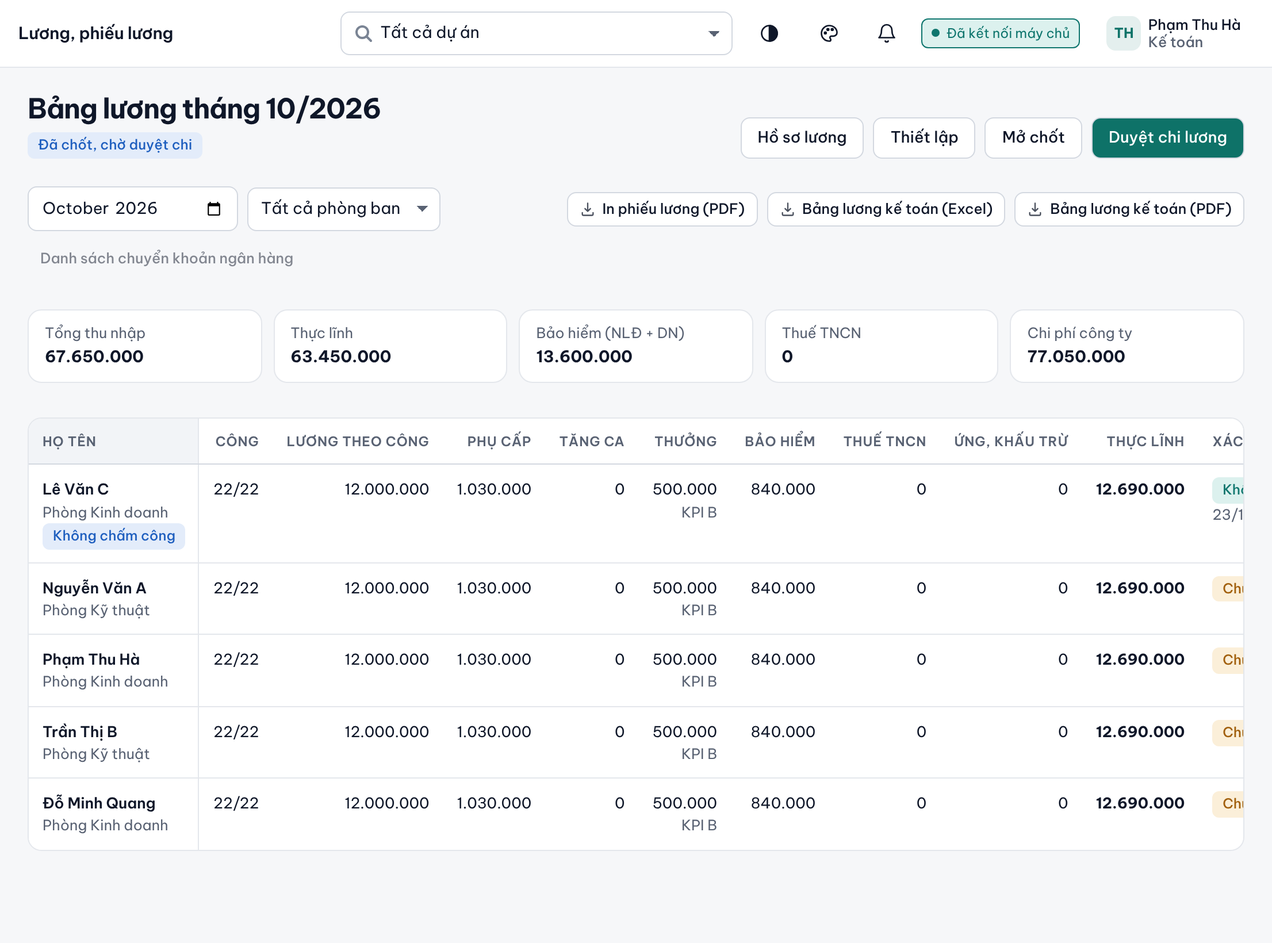
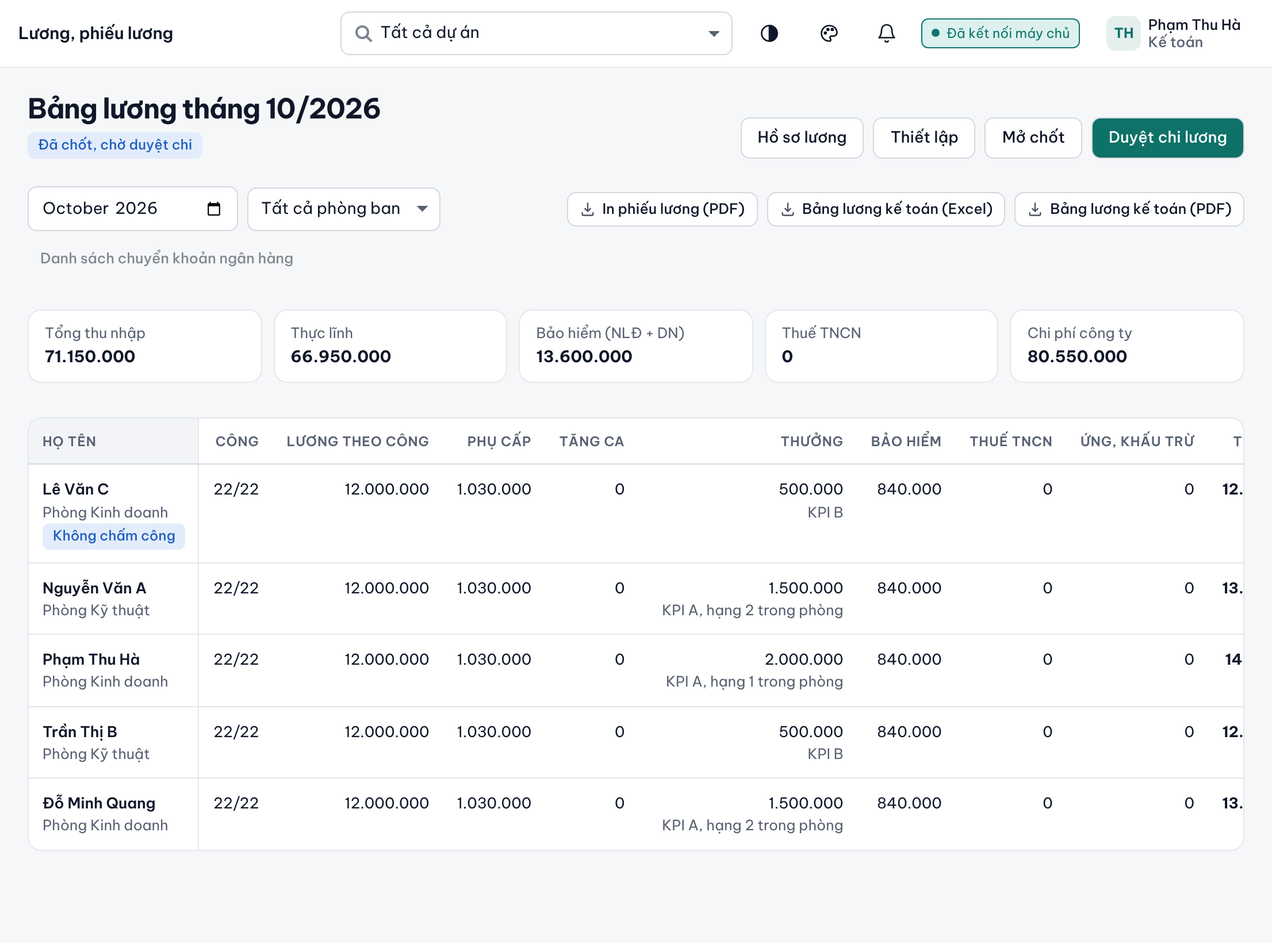
HDSD 1.10.16: Nhận nhiệm vụ thay điểm danh, hôm nay ai ở đâu, tổng hợp tháng, KPI tự động 70/30, thưởng hạng 1-2 toàn công ty, KPI công khai, phép 12 ngày; ảnh mới
Claude-Session: https://claude.ai/code/session_01NQcRJvoDzVmdyR4k9XZr5m

diff --git a/docs/hdsd-tt/content.js b/docs/hdsd-tt/content.js
@@ -1,19 +1,19 @@
-// Nội dung Hướng dẫn sử dụng e-work Tri Thức (bản 1.10.4) theo vai trò.
+// Nội dung Hướng dẫn sử dụng e-work Tri Thức (bản 1.10.16: Nhận nhiệm vụ thay điểm danh, KPI tự động) theo vai trò.
 // Mỗi chương: id, title, roles (nv: Nhân viên, tp: Trưởng phòng, kt: Kế toán, gd: Ban giám đốc, qt: Quản trị), html, shot (ảnh trong shots/, có thể thiếu).
 // Chương chung cho mọi người đặt roles: ALL.
 const ALL = ['nv', 'tp', 'kt', 'gd', 'qt'];
 
 exports.ROLES = {
   nv: { name: 'Nhân viên', file: 'Nhan vien', group: 'g-nv',
-    intro: 'Tài liệu dành cho mọi người lao động của Công ty: điểm danh, gửi đề xuất, làm công việc được giao, xem KPI, xác nhận lương, xem lịch họp, thông báo và thông tin dự án.' },
+    intro: 'Tài liệu dành cho mọi người lao động của Công ty: nhận nhiệm vụ hằng ngày, gửi đề xuất, làm công việc được giao, xem KPI, xác nhận lương, xem lịch họp, thông báo và thông tin dự án.' },
   tp: { name: 'Trưởng phòng', file: 'Truong phong', group: 'g-tp',
-    intro: 'Trưởng phòng làm mọi việc như Nhân viên, thêm phần quản lý phòng mình: giao việc, xác nhận việc phát sinh, nghiệm thu, duyệt đề xuất, chấm KPI, theo dõi bảng công của phòng.' },
+    intro: 'Trưởng phòng làm mọi việc như Nhân viên, thêm phần quản lý phòng mình: giao việc, xác nhận việc phát sinh, nghiệm thu, duyệt đề xuất, xem hôm nay ai ở đâu, theo dõi bảng công của phòng.' },
   kt: { name: 'Kế toán', file: 'Ke toan', group: 'g-ketoan',
     intro: 'Kế toán làm mọi việc như Nhân viên, thêm phần hồ sơ nhân sự, bảng công, ngày nghỉ lễ, lập và chốt bảng lương, trả lời kiến nghị, duyệt chi lương, xuất bảng lương kế toán và danh sách chuyển khoản ngân hàng.' },
   gd: { name: 'Ban giám đốc', file: 'Ban giam doc', group: 'g-bgd',
-    intro: 'Giám đốc làm việc trên phần mềm như mọi người (điểm danh, đề xuất, nhận việc, xác nhận lương), thêm quyền điều hành: xem toàn công ty, giao việc, chốt KPI, duyệt đề xuất, duyệt chi lương, đăng thông báo, quản lý dự án.' },
+    intro: 'Giám đốc làm việc trên phần mềm như mọi người (nhận nhiệm vụ, đề xuất, làm việc được giao, xác nhận lương), thêm quyền điều hành: xem toàn công ty, hôm nay ai ở đâu, giao việc, duyệt đề xuất, duyệt chi lương, đăng thông báo, quản lý dự án.' },
   qt: { name: 'Quản trị hệ thống', file: 'Quan tri he thong', group: 'g-admin',
-    intro: 'Quản trị hệ thống quản lý tài khoản, gán vai trò khi nhân sự thay đổi, phòng ban và trưởng phòng, các thiết lập điểm danh, KPI, lương, phân hệ sử dụng, sao lưu và bảo mật.' },
+    intro: 'Quản trị hệ thống quản lý tài khoản, gán vai trò khi nhân sự thay đổi, phòng ban và trưởng phòng, các thiết lập nhận nhiệm vụ, KPI, lương, phân hệ sử dụng, sao lưu và bảo mật.' },
 };
 
 exports.CHAPTERS = [
@@ -21,10 +21,10 @@ exports.CHAPTERS = [
   { id: 'vai-tro', title: 'Vai trò và phạm vi được xem', roles: ALL, html: `
 <p>Mỗi tài khoản thuộc một <b>vai trò</b> (nhóm quyền). Khi nhân sự thay đổi, Quản trị chỉ đổi vai trò của tài khoản; quyền của từng vai trò giữ nguyên.</p>
 <table><tr><th>Vai trò</th><th>Của mình</th><th>Thêm quyền</th></tr>
-<tr><td><b>Nhân viên</b></td><td rowspan="5">Mọi người đều: điểm danh, gửi đề xuất, nhận và làm việc, xem KPI và phiếu lương của mình, xác nhận lương, xem lịch họp, thông báo, xem thông tin dự án</td><td>Không xem lương, bảng công, hồ sơ nhân sự, KPI của người khác</td></tr>
-<tr><td><b>Trưởng phòng</b></td><td>Với phòng mình: giao việc, xác nhận việc phát sinh, nghiệm thu, duyệt đề xuất, chấm KPI, xem bảng công</td></tr>
+<tr><td><b>Nhân viên</b></td><td rowspan="5">Mọi người đều: nhận nhiệm vụ hằng ngày, gửi đề xuất, làm việc được giao, xem KPI của mọi người (công khai) và phiếu lương của mình, xác nhận lương, xem lịch họp, thông báo, xem thông tin dự án</td><td>Không xem lương, bảng công, hồ sơ nhân sự, tiền thưởng của người khác</td></tr>
+<tr><td><b>Trưởng phòng</b></td><td>Với phòng mình: giao việc, xác nhận việc phát sinh, nghiệm thu, duyệt đề xuất, xem hôm nay ai ở đâu, bảng công</td></tr>
 <tr><td><b>Kế toán</b></td><td>Hồ sơ nhân sự, bảng công, ngày lễ, lập và chốt lương, trả lời kiến nghị, duyệt chi lương, xuất bảng lương và danh sách chuyển khoản</td></tr>
-<tr><td><b>Ban giám đốc</b></td><td>Toàn công ty: giao việc, chấm và chốt KPI, duyệt đề xuất, duyệt chi lương, thông báo, lịch họp, quản lý dự án</td></tr>
+<tr><td><b>Ban giám đốc</b></td><td>Toàn công ty: giao việc, hôm nay ai ở đâu, mở chốt KPI khi cần sửa, duyệt đề xuất, duyệt chi lương, thông báo, lịch họp, quản lý dự án</td></tr>
 <tr><td><b>Quản trị</b></td><td>Tài khoản, vai trò, thiết lập hệ thống, sao lưu</td></tr></table>
 <p class="note">Quyền Trưởng phòng đi theo phòng ban: phòng nào ghi tên người phụ trách là ai thì người đó quản lý phòng đó. Đổi trưởng phòng chỉ cần sửa phòng ban.</p>` },
 
@@ -35,13 +35,23 @@ exports.CHAPTERS = [
 <p>Trên điện thoại: mở trang bằng Chrome (Android) hoặc Safari (iPhone), chọn <b>Thêm vào màn hình chính</b> để dùng như ứng dụng.</p>
 <p class="note">Quên mật khẩu: báo Quản trị đặt lại. Phần mềm không bao giờ hỏi mật khẩu qua tin nhắn hay thư.</p>` },
 
-  { id: 'diem-danh', title: 'Điểm danh hằng ngày', roles: ALL, shot: 'diem-danh', html: `
-<ol><li>Vào <b>Văn phòng → Điểm danh</b> (trang mở đầu sau khi đăng nhập).</li>
-<li>Chọn nơi làm việc (<i>Tại công ty, công trình</i>, <i>Làm việc online</i>, <i>Đi công tác</i>), bấm <b>Điểm danh vào</b>; về bấm <b>Điểm danh ra</b>. Tại công ty: cho phép trình duyệt dùng định vị, hoặc kết nối mạng của công ty.</li>
-<li>Màn hình hiện giờ vào, giờ ra, lời chúc trong ngày lễ, sinh nhật, và các việc sắp đến hạn của bạn.</li></ol>
-<p>Ngày nghỉ (Chủ nhật, thứ Bảy nghỉ, ngày lễ): nút điểm danh khóa, màn hình chỉ hiện lời chúc. Có làm thêm vào ngày nghỉ thì làm xong lập <b>phiếu xác nhận tăng ca</b> (chương <i>Đề xuất</i>).</p>
-<p>Quên điểm danh, đi muộn có lý do, làm việc online: gửi đề xuất tương ứng (chương <i>Đề xuất</i>). Đề xuất được duyệt thì bảng công tự tính lại.</p>
-<p class="note">Chấm công trên phần mềm mới được chép sang e-work cũ mỗi 5 phút trong thời gian chạy song song, nên không cần chấm hai nơi.</p>` },
+  { id: 'diem-danh', title: 'Nhận nhiệm vụ hằng ngày', roles: ALL, shot: 'nhan-nhiem-vu', html: `
+<p>"Nhận nhiệm vụ" thay cho điểm danh: <b>mỗi ngày làm việc bấm một lần</b>, khi bắt đầu làm việc. Không cần định vị, không cần phiếu duyệt, không bấm khi ra về.</p>
+<ol><li>Vào <b>Văn phòng → Nhận nhiệm vụ</b> (trang mở đầu sau khi đăng nhập).</li>
+<li>Chọn hôm nay làm việc ở đâu: <i>Ở công ty</i>, <i>Làm việc online</i>, <i>Đi công tác</i> hoặc <i>Khác</i>. Chọn <i>Khác</i> thì bắt buộc ghi nội dung công việc hôm nay (ví dụ: họp với chủ đầu tư tại UBND xã).</li>
+<li>Tích chọn các <b>việc được giao</b> sẽ làm hôm nay (không bắt buộc; danh sách lấy từ mục Công việc).</li>
+<li>Bấm <b>Nhận nhiệm vụ</b>. Màn hình hiện giờ nhận, nơi làm, việc đã chọn; đi muộn thì hiện số phút muộn.</li>
+<li>Cuối ngày có thể ghi một dòng <b>Kết quả hôm nay</b> rồi bấm <b>Lưu kết quả</b> (không bắt buộc).</li></ol>
+<table><tr><th>Trường hợp</th><th>Cách tính</th></tr>
+<tr><td>Đã nhận nhiệm vụ</td><td>Tính 1 ngày công để tính lương (ngày làm nửa ngày tính theo lịch).</td></tr>
+<tr><td>Nhận sau giờ vào (08:00)</td><td>Tính đi muộn, trừ điểm chuyên cần trong KPI (muộn không quá 5 phút không trừ). Chọn <i>Đi công tác</i> hoặc <i>Khác</i> thì không tính muộn.</td></tr>
+<tr><td>Ngày làm việc không nhận nhiệm vụ và không có phiếu nghỉ phép được duyệt</td><td>Tính <b>nghỉ không phép</b>: trừ lương ngày đó và trừ điểm chuyên cần.</td></tr>
+<tr><td>Có phiếu nghỉ phép, nghỉ việc riêng, làm việc online hoặc công tác được duyệt cả ngày</td><td>Không phải nhận nhiệm vụ, không tính nghỉ không phép.</td></tr></table>
+<p>Quá 07:50 chưa nhận nhiệm vụ thì trang hiện lời nhắc. Bấm <b>Bật nhắc trên thiết bị này</b> để điện thoại, máy tính hiện thông báo khi đang mở phần mềm.</p>
+<p>Ngày nghỉ (Chủ nhật, thứ Bảy nghỉ, ngày lễ): không nhận nhiệm vụ, màn hình chỉ hiện lời chúc. Có làm thêm vào ngày nghỉ thì làm xong lập <b>phiếu xác nhận tăng ca</b> (chương <i>Đề xuất</i>).</p>
+<p>Quên nhận nhiệm vụ hoặc đi muộn có lý do: gửi đề xuất <i>Quên điểm danh</i> hoặc <i>Đi muộn, về sớm</i>. Đề xuất được duyệt thì công tự tính lại.</p>
+<p>Từ ngày 1 đến ngày 10 mỗi tháng, trang hiện <b>Tổng kết tháng trước của bạn</b>: số ngày ở công ty, online, công tác, khác, số lần đi muộn, ngày nghỉ phép, ngày nghỉ không phép. Bấm <b>Đã xem</b> để ẩn.</p>
+<p class="note">Trong thời gian chạy song song, ngày nhận nhiệm vụ được chép sang e-work cũ mỗi 5 phút, nên không cần chấm hai nơi.</p>` },
 
   { id: 'de-xuat', title: 'Gửi đề xuất', roles: ALL, shot: 'de-xuat', html: `
 <ol><li>Vào <b>Văn phòng → Đề xuất</b>, bấm <b>+ Tạo đề xuất</b>, chọn loại.</li>
@@ -52,9 +62,9 @@ exports.CHAPTERS = [
 <tr><td>Nghỉ việc riêng có lương</td><td>Kết hôn 3 ngày, con kết hôn 1 ngày, bố mẹ (hai bên), vợ hoặc chồng, con mất 3 ngày (Điều 115 Bộ luật Lao động). Không trừ phép.</td></tr>
 <tr><td>Nghỉ không lương</td><td>Không tính lương ngày đó, không tính vắng không phép.</td></tr>
 <tr><td>Nghỉ ốm, thai sản (BHXH)</td><td>Công ty không trả lương ngày đó; bảo hiểm xã hội chi trả theo chứng từ.</td></tr>
-<tr><td>Làm việc online, Công tác</td><td>Tính đủ công. Công tác phí theo mức Công ty đặt (nếu bật).</td></tr>
-<tr><td>Tăng ca (phiếu xác nhận)</td><td>Lập <b>sau khi đã làm thêm</b>: chọn loại (bình thường tối đa 3 giờ/ngày; theo yêu cầu gấp tối đa 4 giờ/ngày), ngày, số giờ đã làm, nội dung. Không lập cho ngày chưa tới. Trưởng bộ phận hoặc Giám đốc duyệt. Phiếu duyệt trong tháng nào tính vào lương tháng đó. Tiền = số giờ × (lương chính + phụ cấp) ÷ công chuẩn ÷ 8 × hệ số: ngày thường 150%, ngày nghỉ hằng tuần 200%, ngày lễ 300% (Điều 98).</td></tr>
-<tr><td>Đi muộn, về sớm; Quên điểm danh</td><td>Được duyệt thì không tính đi muộn hoặc thiếu công.</td></tr>
+<tr><td>Làm việc online, Công tác</td><td>Không bắt buộc: chỉ cần chọn khi nhận nhiệm vụ. Lập phiếu khi cả ngày không vào được phần mềm hoặc cần công tác phí. Công tác phí theo mức Công ty đặt (nếu bật).</td></tr>
+<tr><td>Tăng ca (phiếu xác nhận)</td><td>Lập <b>sau khi đã làm thêm</b>: chọn loại (bình thường tối đa 3 giờ/ngày; theo yêu cầu gấp tối đa 4 giờ/ngày), ngày, số giờ đã làm, nội dung. Không lập cho ngày chưa tới. Trưởng bộ phận hoặc Giám đốc duyệt. Phiếu duyệt trong tháng nào tính vào lương tháng đó. Tiền = số giờ × (lương chính + phụ cấp) ÷ công chuẩn ÷ 8 × hệ số theo loại ngày, đặt trong <b>Lương → Thiết lập</b> (Công ty đang trả như e-work: làm thêm ngày nghỉ 150%).</td></tr>
+<tr><td>Đi muộn, về sớm; Quên điểm danh (quên nhận nhiệm vụ)</td><td>Được duyệt thì không tính đi muộn hoặc nghỉ không phép.</td></tr>
 <tr><td>Tạm ứng, Xăng xe, Thanh toán, Ứng lương</td><td>Kế toán hoặc Ban giám đốc chọn có đưa vào lương tháng hay không.</td></tr></table>` },
 
   { id: 'cong-viec', title: 'Công việc của tôi', roles: ALL, shot: 'cong-viec', html: `
@@ -63,12 +73,18 @@ exports.CHAPTERS = [
 <li>Làm xong bấm <b>Hoàn thành</b>, ghi kết quả, đính kèm sản phẩm. Việc chuyển sang <i>Chờ nghiệm thu</i>.</li>
 <li>Người giao nghiệm thu, chấm chất lượng 1 đến 5 sao, hoặc mở lại kèm hạn mới nếu cần sửa.</li>
 <li>Phát sinh việc ngoài kế hoạch: bấm <b>+ Việc phát sinh</b>, chọn nhiệm vụ hoặc công việc mà việc này phát sinh từ đó. Trưởng phòng xác nhận thì việc mới tính KPI.</li></ol>
-<p>Điểm công việc trong KPI = mức độ (Bình thường, Quan trọng, Khẩn cấp) × đúng hạn × chất lượng. Mỗi lần gia hạn hoặc mở lại bị trừ một phần. Người phối hợp được tính một phần điểm.</p>
-<p class="note">Việc sắp đến hạn và quá hạn hiện ngay trên trang Điểm danh để nhắc bạn.</p>` },
+<p>Điểm công việc trong KPI = mức độ (Bình thường 1, Quan trọng 1,5, Khẩn cấp 2) × hệ số đúng hạn (trễ đến 1 ngày còn 75%, đến 3 ngày còn 50%, trễ hơn 0). Mỗi lần mở lại trừ 20%, mỗi lần gia hạn trừ 10%. Người phối hợp được tính 30% điểm. Số sao nghiệm thu để ghi nhận chất lượng, không làm thay đổi điểm.</p>
+<p class="note">Việc sắp đến hạn và quá hạn hiện ngay trên trang Nhận nhiệm vụ để nhắc bạn; khi nhận nhiệm vụ bạn chọn được các việc này để làm trong ngày.</p>` },
 
   { id: 'kpi', title: 'KPI, đánh giá tháng', roles: ALL, shot: 'kpi', html: `
-<p>Vào <b>Văn phòng → KPI, đánh giá tháng</b>, chọn tháng. Bạn thấy điểm của mình: công việc, dự án, chuyên cần, đánh giá của trưởng phòng, tổng điểm, xếp loại và hạng trong phòng.</p>
-<p>Trong tháng, trang Điểm danh hiện KPI tạm tính tới hôm nay và mức cần đạt để được thưởng xếp hạng. Khi KPI tháng được chốt, thưởng xếp hạng (nếu có) cộng vào lương tháng đó.</p>` },
+<p><b>KPI do máy tự tính hoàn toàn</b>, không ai chấm tay. Vào <b>Văn phòng → KPI, đánh giá tháng</b>, chọn tháng.</p>
+<table><tr><th>Phần</th><th>Tỷ trọng</th><th>Cách tính</th></tr>
+<tr><td>Công việc</td><td>70%</td><td>Từ các việc được giao xong trong tháng (chương <i>Công việc của tôi</i>).</td></tr>
+<tr><td>Chuyên cần</td><td>30%</td><td>100 điểm, mỗi lần đi muộn quá 5 phút trừ 5, mỗi ngày nghỉ không phép trừ 20; thấp nhất 0.</td></tr></table>
+<p>Tháng không có việc được giao thì điểm chỉ tính theo chuyên cần. Xếp loại: A từ 90, B từ 75, C từ 60, dưới 60 là D.</p>
+<p><b>Thưởng KPI</b>: cả công ty xếp hạng chung, chỉ <b>hạng 1 và hạng 2</b> được thưởng theo mức Công ty đặt. Máy tự chốt KPI lúc 0 giờ ngày 1 tháng sau, thưởng cộng vào lương tháng đó.</p>
+<p><b>Điểm KPI công khai</b>: mọi người xem được điểm, xếp loại, hạng của nhau để cùng phấn đấu. Tiền thưởng của người khác không hiện.</p>
+<p class="note">Cách tính áp dụng từ tháng 12/2026; sau 3 tháng Công ty đánh giá lại và điều chỉnh nếu cần.</p>` },
 
   { id: 'phieu-luong', title: 'Phiếu lương và xác nhận lương', roles: ALL, shot: 'phieu-luong', html: `
 <ol><li>Khi bảng lương tháng được chốt, vào <b>Văn phòng → Lương, phiếu lương</b>, chọn tháng để xem phiếu lương của mình: ngày công, lương thời gian, phụ cấp, tăng ca, công tác phí, thưởng KPI, bảo hiểm, thuế thu nhập cá nhân, tạm ứng, thực nhận.</li>
@@ -96,24 +112,24 @@ exports.CHAPTERS = [
 <li>Mở đề xuất, xem chứng từ đính kèm, bấm <b>Duyệt</b> hoặc <b>Không duyệt</b> (ghi lý do).</li></ol>
 <p>Trưởng phòng duyệt đề xuất của nhân viên phòng mình. Ban giám đốc duyệt mọi đề xuất, kể cả của Trưởng phòng. Không ai tự duyệt đề xuất của mình; đề xuất của Giám đốc do Quản trị duyệt.</p>` },
 
-  { id: 'tp-kpi', title: 'Chấm KPI, theo dõi bảng công của phòng', roles: ['tp', 'gd'], html: `
-<ol><li>Vào <b>KPI, đánh giá tháng</b>, chọn tháng. Điểm công việc và chuyên cần tự tính; bạn chấm <b>điểm dự án</b> và <b>đánh giá</b> (1 đến 5 sao) cho từng người.</li>
-<li>Chấm xong trong tháng. <b>Máy tự chốt KPI lúc 0 giờ ngày 1 tháng sau</b> (không ai phải bấm), để phiếu lương nhân viên xác nhận từ ngày 1 đã có thưởng. Sau khi chốt, điểm và hạng cố định, việc cập nhật trễ không làm đổi thưởng. Cần sửa thì Ban giám đốc bấm <b>Mở chốt</b>, sửa xong bấm <b>Chốt KPI tháng</b> (máy không tự chốt lại tháng đã mở chốt).</li>
-<li>Bảng công: <b>Bảng công, chấm công</b> hiện công của phòng (Trưởng phòng) hoặc toàn công ty (Ban giám đốc, Kế toán); <b>Xuất Excel</b> khi cần.</li></ol>
-<p>Thiết lập KPI (tỷ trọng, hệ số mức độ, trễ hạn, chất lượng, phối hợp, xếp loại) do Ban giám đốc hoặc Quản trị đặt trong nút <b>Thiết lập</b>.</p>` },
+  { id: 'tp-kpi', title: 'Hôm nay ai ở đâu, bảng công của phòng, KPI', roles: ['tp', 'gd'], shot: 'hom-nay', html: `
+<ol><li>Vào <b>Bảng công, chấm công</b>, thẻ <b>Hôm nay ai ở đâu</b>: số người ở công ty, online, công tác, khác, có phiếu nghỉ, chưa nhận nhiệm vụ, đi muộn; từng người làm ở đâu, việc làm hôm nay, kết quả cuối ngày. Chọn ngày khác để xem lại.</li>
+<li>Thẻ <b>Tổng hợp tháng</b>: mỗi người số ngày công, ở công ty, online, công tác, khác, đi muộn, nghỉ phép, tăng ca, nghỉ không phép; <b>Xuất Excel</b> khi cần. Trưởng phòng thấy phòng mình, Ban giám đốc và Kế toán thấy toàn công ty.</li>
+<li><b>KPI</b> máy tự tính và tự chốt lúc 0 giờ ngày 1 tháng sau, không ai phải chấm hay bấm chốt. Cần sửa sai sót thì Ban giám đốc bấm <b>Mở chốt</b>, sửa, bấm <b>Chốt KPI tháng</b>.</li></ol>
+<p>Muốn KPI phản ánh đúng: giao việc có hạn rõ ràng, nghiệm thu đúng lúc, xác nhận việc phát sinh kịp thời.</p>` },
 
   // ---------------- kế toán
   { id: 'kt-nhan-su', title: 'Hồ sơ nhân sự, hồ sơ lương', roles: ['kt', 'gd'], shot: 'nhan-su', html: `
 <ol><li><b>Văn phòng → Nhân sự</b>, bấm tên một người để mở trang hồ sơ: thẻ <b>Thông tin chung</b> (cá nhân, phòng ban, chức vụ, ngày vào làm, ngân hàng, CCCD, người phụ thuộc), <b>Bằng cấp, chứng chỉ</b>, <b>Hợp đồng lao động</b>, <b>Quá trình công tác</b>, <b>Khen thưởng</b>, <b>Kỷ luật</b>, <b>Giấy tờ</b>, <b>Tất cả tệp</b>. Mỗi mục đính kèm được ảnh chụp hoặc bản PDF, bấm <b>Xem</b> để mở ngay. Mỗi người xem hồ sơ của mình ở <b>Hồ sơ của tôi</b>.</li>
-<li>Ô <b>Chấm công</b>: chọn <i>Không chấm công</i> cho người không cần điểm danh. Người đó hưởng nguyên lương chính, không cần tự xác nhận lương.</li>
+<li>Ô <b>Chấm công</b>: chọn <i>Không chấm công</i> cho người không cần nhận nhiệm vụ. Người đó hưởng nguyên lương chính, không cần tự xác nhận lương.</li>
 <li>Người nghỉ việc: ghi ngày nghỉ việc và trạng thái <i>Nghỉ việc</i>; hồ sơ vẫn giữ để tra cứu và tính lương tháng cuối.</li>
 <li><b>Lương → Hồ sơ lương</b>: lương cơ bản, lương đóng bảo hiểm, các khoản phụ cấp, số người phụ thuộc, cách tính thuế, đóng hay không đóng bảo hiểm, mức công tác phí riêng (để trống thì dùng mức chung, 0 là không hưởng; đã lấy sẵn từ e-work).</li></ol>
 <p class="note">Thông tin CCCD, ngân hàng là dữ liệu cá nhân (Nghị định 13/2023): chỉ dùng để chi lương, không chụp màn hình gửi ra ngoài.</p>` },
 
   { id: 'kt-bang-cong', title: 'Bảng công, ngày nghỉ lễ', roles: ['kt', 'gd'], html: `
-<ol><li><b>Bảng công, chấm công</b>, thẻ <b>Bảng công tháng</b>: chọn tháng, xem từng người (đi muộn, về sớm, vắng, nghỉ phép, công tác, online, tăng ca). Bấm tên để xem chi tiết từng ngày (thẻ <b>Chi tiết điểm danh</b>).</li>
-<li><b>+ Bổ sung điểm danh</b> hoặc <b>Điều chỉnh</b> khi có sai sót (phần mềm ghi lại người sửa, lý do).</li>
-<li>Thẻ <b>Thiết lập điểm danh</b>: chọn năm, bấm <b>Điền ngày lễ theo luật</b> cho năm mới; thêm ngày nghỉ bù, ngày làm bù theo thông báo của Chính phủ.</li></ol>` },
+<ol><li><b>Bảng công, chấm công</b>, thẻ <b>Tổng hợp tháng</b>: chọn tháng, xem từng người (ngày công, ở công ty, online, công tác, khác, đi muộn, nghỉ phép, tăng ca, nghỉ không phép); <b>Xuất Excel</b>. Bấm tên để xem chi tiết từng ngày (thẻ <b>Chi tiết nhận nhiệm vụ</b>).</li>
+<li><b>+ Bổ sung nhận nhiệm vụ</b> hoặc <b>Điều chỉnh</b> khi có sai sót (ô giờ để trống thì giữ giờ cũ; phần mềm ghi lại người sửa, lý do).</li>
+<li>Thẻ <b>Thiết lập</b>: chọn năm, bấm <b>Điền ngày lễ theo luật</b> cho năm mới; thêm ngày nghỉ bù, ngày làm bù theo thông báo của Chính phủ.</li></ol>` },
 
   { id: 'kt-luong', title: 'Lập, chốt bảng lương', roles: ['kt', 'gd'], shot: 'bang-luong', html: `
 <ol><li>Vào <b>Lương, phiếu lương</b>, chọn tháng. Bảng lương tự tính từ bảng công, đề xuất đã duyệt, KPI đã chốt và hồ sơ lương.</li>
@@ -123,7 +139,8 @@ exports.CHAPTERS = [
 <p><b>Quy tắc tính (theo quy định hiện hành):</b></p>
 <ul><li>Bảo hiểm người lao động đóng: BHXH 8%, BHYT 1,5%, BHTN 1%. Trần BHXH, BHYT = 20 lần lương cơ sở (2.530.000 đ từ 01/7/2026); trần BHTN = 20 lần lương tối thiểu vùng (vùng I 5.310.000 đ từ 01/01/2026, Nghị định 293/2025).</li>
 <li>Thuế TNCN: biểu 5 bậc từ 01/01/2026 (5%, 10%, 20%, 30%, 35%); giảm trừ bản thân 15,5 triệu, mỗi người phụ thuộc 6,2 triệu.</li>
-<li>Nghỉ phép trong số phép được hưởng lương; vượt phép trừ lương. Cuối năm còn phép thì trả vào lương tháng 12.</li>
+<li>Phép năm: làm đủ năm được 12 ngày (như e-work, không cộng thêm theo thâm niên); năm đầu tính theo số tháng làm việc. Nghỉ phép trong số phép được hưởng lương; vượt phép trừ lương. Cuối năm còn phép thì trả vào lương tháng 12.</li>
+<li>Ngày nghỉ không phép (không nhận nhiệm vụ, không có phiếu nghỉ) trừ lương ngày đó.</li>
 <li>Công tác phí theo mức trong Thiết lập (bật hoặc tắt). Tạm ứng, xăng xe theo lựa chọn từng đề xuất.</li></ul>` },
 
   { id: 'kt-duyet-chi', title: 'Duyệt chi, xuất bảng lương và danh sách chuyển khoản', roles: ['kt', 'gd'], shot: 'duyet-chi', html: `
@@ -135,12 +152,13 @@ exports.CHAPTERS = [
 
   // ---------------- ban giám đốc
   { id: 'gd-dieu-hanh', title: 'Điều hành toàn công ty', roles: ['gd'], html: `
-<ul><li>Trang Điểm danh hiện thêm mục <b>Việc của phòng, người bạn giao</b>: số việc quá hạn, việc phát sinh chờ xác nhận, việc chờ nghiệm thu, người có KPI dưới mức. Bấm để mở ngay danh sách.</li>
+<ul><li><b>Bảng công, chấm công → Hôm nay ai ở đâu</b>: xem nhanh trên điện thoại ai ở công ty, online, công tác, ai chưa nhận nhiệm vụ.</li>
+<li>Trang Nhận nhiệm vụ hiện thêm mục <b>Việc của phòng, người bạn giao</b>: số việc quá hạn, việc phát sinh chờ xác nhận, việc chờ nghiệm thu, người có KPI dưới mức. Bấm để mở ngay danh sách.</li>
 <li><b>Thông báo nội bộ</b>: <b>+ Đăng thông báo</b>, chọn người nhận; xem ai đã đọc (<i>Đã xem</i>).</li>
 <li><b>Lịch họp</b>: <b>+ Thêm lịch</b>, ghi kết luận sau họp, <b>Xuất Excel</b> hoặc <b>In, lưu PDF</b>.</li>
 <li><b>Dự án</b>: tạo, sửa dự án; nhiệm vụ của dự án là cấp cha cho công việc của nhân viên.</li>
 <li>Mỗi trang KPI, Bảng công, Lương, Công việc, Lịch họp đều có <b>Xuất Excel</b> hoặc <b>In, lưu PDF</b> để báo cáo.</li></ul>
-<p class="note">Giám đốc vẫn điểm danh, gửi đề xuất và xác nhận phiếu lương của mình như mọi người.</p>` },
+<p class="note">Giám đốc vẫn nhận nhiệm vụ, gửi đề xuất và xác nhận phiếu lương của mình như mọi người.</p>` },
 
   // ---------------- quản trị
   { id: 'qt-tai-khoan', title: 'Tài khoản, vai trò khi nhân sự thay đổi', roles: ['qt'], shot: 'qt-nguoi-dung', html: `
@@ -151,8 +169,8 @@ exports.CHAPTERS = [
 <p class="note">Quyền <i>xem</i> một phân hệ Văn phòng (Nhân sự, Bảng công, Đề xuất, KPI, Lương) nghĩa là xem dữ liệu của mọi người. Không cấp cho vai trò Nhân viên.</p>` },
 
   { id: 'qt-thiet-lap', title: 'Thiết lập hệ thống', roles: ['qt'], html: `
-<ul><li><b>Bảng công → Thiết lập điểm danh</b>: giờ làm, ca sáng chiều, thứ Bảy, số ngày phép năm, vị trí và mạng công ty để điểm danh, cho phép ngoài phạm vi.</li>
-<li><b>KPI → Thiết lập</b>: tỷ trọng, hệ số mức độ, trễ hạn, chất lượng, trừ gia hạn, mở lại, hệ số phối hợp, xếp loại, thưởng xếp hạng, số ngày nhắc trước hạn, tự chốt KPI (bật/tắt, ngày tự chốt).</li>
+<ul><li><b>Bảng công → Thiết lập</b>: giờ làm, ca sáng chiều, thứ Bảy, số ngày phép năm, có cộng phép theo thâm niên hay không; ô <i>Nhận nhiệm vụ</i> (bật: mỗi ngày bấm một lần, tự chọn nơi làm, không định vị) và tên hiển thị của nút.</li>
+<li><b>KPI → Thiết lập</b>: công khai điểm KPI, cách tính (tự động hoàn toàn hoặc có chấm tay), tỷ trọng, xếp hạng chung toàn công ty, số người đứng đầu được thưởng, hệ số mức độ, trễ hạn, chất lượng, trừ gia hạn, mở lại, hệ số phối hợp, xếp loại, thưởng xếp hạng, số ngày nhắc trước hạn, tự chốt KPI (bật/tắt, ngày tự chốt).</li>
 <li><b>Lương → Thiết lập</b>: lương cơ sở, lương tối thiểu vùng, tỷ lệ bảo hiểm, giảm trừ, biểu thuế, tỷ lệ tăng ca, số giờ tăng ca tối đa một ngày (bình thường, gấp), tính tăng ca theo tháng duyệt phiếu hay theo ngày tăng ca, đơn giá tăng ca tính trên lương chính + phụ cấp hay chỉ lương chính, thưởng của tháng còn làm trên e-work (lấy theo bảng lương e-work hay theo KPI trên phần mềm), công tác phí, tạm ứng và xăng xe mặc định, tài khoản trích nợ, nội dung chuyển khoản, hạn xác nhận lương.</li>
 <li><b>Thông tin đơn vị → Phân hệ sử dụng</b>: ẩn các phân hệ Công ty không dùng.</li>
 <li><b>Sao lưu, phục hồi</b>: sao lưu tự động hằng ngày; tải bản sao lưu đầy đủ trước mỗi lần cập nhật.</li>
@@ -160,6 +178,6 @@ exports.CHAPTERS = [
 
   { id: 'qt-ework', title: 'Chuyển dữ liệu và chạy song song e-work cũ', roles: ['qt'], html: `
 <ul><li>Dữ liệu e-work (nhân sự, chấm công, đề xuất, lịch họp, thông báo, hồ sơ lương, dự án, công việc) đã chuyển sang; bảng cũ lưu tại <b>Dữ liệu e-work cũ</b> để tra cứu.</li>
-<li>Trong thời gian chạy song song, chấm công được chép sang e-work cũ mỗi 5 phút (chỉ thêm, không sửa, xóa).</li>
+<li>Trong thời gian chạy song song, ngày nhận nhiệm vụ được chép sang e-work cũ mỗi 5 phút: thêm dòng mới; dòng do phần mềm mới chép mà sau đó sửa (điều chỉnh, giải trình được duyệt) thì cập nhật đúng dòng đó; không xóa. Phần cập nhật cần quyền UPDATE trên bảng ChamCongs của e-work.</li>
 <li>Đối chiếu lương: chạy lệnh <code>--doi-chieu-luong 2026-10</code> trên máy chủ để so bảng lương e-work với bản mới, ra tệp chênh lệch từng người.</li></ul>` },
 ];

diff --git a/docs/hdsd-tt/shots.js b/docs/hdsd-tt/shots.js
@@ -65,10 +65,15 @@ const VIEW = { width: 1366, height: 820 };
   const PM = prevMonth(), M = thisMonth(), D0 = today();
 
   { const _vs = await (await r.get(BASE + '/api/vp/settings', { headers: H })).json(); const _td = new Date(Date.now() + 7 * 3600e3).toISOString().slice(0, 10);
-    await r.put(BASE + '/api/vp/settings', { headers: H, data: { ..._vs, workdays: [...(_vs.workdays || []), _td + ' Ngày kiểm thử'] } }); } // hôm nay luôn là ngày làm việc (ngày nghỉ không mở điểm danh)
+    // Bản 1.10.16: thiết lập như máy Tri Thức sau nâng cấp (Nhận nhiệm vụ, phép 12 ngày không cộng thâm niên)
+    await r.put(BASE + '/api/vp/settings', { headers: H, data: { ..._vs, inOnly: true, word: 'Nhận nhiệm vụ', leaveSeniorityBonus: false, checkIn: '08:00', workdays: [...(_vs.workdays || []), _td + ' Ngày kiểm thử'] } }); } // hôm nay luôn là ngày làm việc
+  { const ks = await J(r.get(BASE + '/api/vp/kpi-settings', { headers: H }));
+    await r.put(BASE + '/api/vp/kpi-settings', { headers: H, data: { ...ks, auto: true, wWork: 70, wProject: 0, wAttendance: 30, wManager: 0, qualityFactors: [1, 1, 1, 1, 1], rankOn: true, rankCompany: true, rankTop: 2, rankMinGrade: 'C', public: true,
+      rankTables: (ks.rankTables && ks.rankTables.length) ? ks.rankTables : [{ from: '2026-01', amounts: [1000000, 500000] }] } }); }
   // điểm danh, đề xuất
-  await nv.request.post(BASE + '/api/vp/check', { headers: H, data: { kind: 'in', mode: 'office' } });
   await gd.request.post(BASE + '/api/vp/check', { headers: H, data: { kind: 'in', mode: 'office' } });
+  await tp.request.post(BASE + '/api/vp/check', { headers: H, data: { kind: 'in', mode: 'khac', note: 'Họp với khách hàng A tại trụ sở khách hàng' } });
+  await kt.request.post(BASE + '/api/vp/check', { headers: H, data: { kind: 'in', mode: 'online' } });
   const nd = D0.slice(0, 8) + '28';
   await nv.request.put(BASE + '/api/vp/requests/dx-hd1', { headers: H, data: { type: 'Nghỉ phép', fromAt: nd + 'T08:00:00+07:00', toAt: nd + 'T17:30:00+07:00', days: 1, reason: 'Việc gia đình' } });
   await nv.request.put(BASE + '/api/vp/requests/dx-hd2', { headers: H, data: { type: 'Xăng xe', fromAt: D0 + 'T08:00:00+07:00', toAt: D0 + 'T17:00:00+07:00', place: 'Khách hàng tại quận 3', km: 24, amount: 120000, reason: 'Triển khai phần mềm' } });
@@ -84,9 +89,15 @@ const VIEW = { width: 1366, height: 820 };
   await nv.request.post(BASE + `/api/vp/viec/${v1}/trang-thai`, { headers: H, data: { status: 'Hoàn thành', doneDate: D0, result: 'Đã cài đặt, nạp đủ dữ liệu' } });
   await nv.request.post(BASE + `/api/vp/viec/${v2}/trang-thai`, { headers: H, data: { status: 'Đang thực hiện' } });
   await nv.request.post(BASE + '/api/vp/viec', { headers: H, data: { name: 'Sửa lỗi in phiếu theo yêu cầu khách hàng', parentId: nvu, startDate: D0, due: M + '-27' } });
+  // nhân viên: chụp màn hình trước khi nhận nhiệm vụ (chọn nơi làm, việc được giao), rồi nhận nhiệm vụ và ghi kết quả
+  await (async () => { const pg = await nv.newPage(); await pg.goto(BASE + '/#van-phong'); await pg.waitForSelector('.vp-mode', { timeout: 30000 }); await pg.waitForTimeout(1500);
+    await pg.screenshot({ path: path.join(OUT, 'nhan-nhiem-vu.png') }); await pg.close(); })();
+  { const tks = await J(nv.request.get(BASE + '/api/vp/my-tasks', { headers: H }));
+    await nv.request.post(BASE + '/api/vp/check', { headers: H, data: { kind: 'in', mode: 'office', taskIds: tks.slice(0, 2).map(x => x.id) } });
+    await nv.request.post(BASE + '/api/vp/check/today', { headers: H, data: { result: 'Đã cài máy chủ, nạp xong dữ liệu; hẹn khách hàng đào tạo thứ Sáu' } }); }
 
   // tháng trước: chấm KPI, chốt, chốt lương để nhân viên xem phiếu lương
-  for (const e of emps) await r.put(BASE + `/api/vp/kpi/${PM}/${e.id}`, { headers: H, data: { workScore: 85 + (emps.indexOf(e) % 3) * 5, projectScore: 80, rating: 4 } });
+  for (const e of emps) await r.put(BASE + `/api/vp/kpi/${PM}/${e.id}`, { headers: H, data: { workScore: 85 + (emps.indexOf(e) % 3) * 5 } });
   await r.post(BASE + `/api/vp/kpi/${PM}/chot`, { headers: H, data: { lock: true } });
   await r.post(BASE + `/api/vp/luong/${PM}/chot`, { headers: H, data: { lock: true } });
 
@@ -101,6 +112,8 @@ const VIEW = { width: 1366, height: 820 };
   { const cx = await b.newContext({ viewport: VIEW, deviceScaleFactor: 2, timezoneId: 'Asia/Ho_Chi_Minh' }); const pg = await cx.newPage(); await pg.goto(BASE + '/'); await pg.waitForSelector('#login'); await pg.waitForTimeout(800);
     await pg.screenshot({ path: path.join(OUT, 'dang-nhap.png') }); await cx.close(); }
   await shot(nv, 'diem-danh', 'van-phong', null, { full: true });
+  await shot(gd, 'hom-nay', 'diem-danh', `S.tab.dd='hom-nay'; render()`);
+  await shot(kt, 'tong-hop', 'diem-danh', `S.tab.dd='bang'; render()`);
   await shot(nv, 'de-xuat', 'de-xuat');
   await shot(nv, 'cong-viec', 'cong-viec');
   await shot(nv, 'kpi', 'kpi', `S.f.kpim='${PM}'; render()`);

diff --git a/docs/hdsd-tt/build.js b/docs/hdsd-tt/build.js
@@ -4,7 +4,7 @@ const { chromium } = require('playwright');
 const fs = require('fs'), path = require('path');
 const { ROLES, CHAPTERS } = require('./content');
 const OUT = process.argv[2] || path.join(__dirname, 'out'); fs.mkdirSync(OUT, { recursive: true });
-const SHOTS = path.join(__dirname, 'shots'), VER = '1.10.14', DATE = '24/11/2026';
+const SHOTS = path.join(__dirname, 'shots'), VER = '1.10.16', DATE = '26/11/2026';
 const CAP = { 'dang-nhap': 'Trang đăng nhập', 'diem-danh': 'Trang Điểm danh: giờ vào, ra, nhắc việc, KPI tạm tính, phép còn lại',
   'de-xuat': 'Trang Đề xuất', 'cong-viec': 'Việc của tôi: nhắc việc quá hạn, KPI tạm tính, các nút thao tác', 'kpi': 'KPI tháng của tôi',
   'phieu-luong': 'Phiếu lương, xác nhận hoặc gửi kiến nghị', 'giao-viec': 'Việc của phòng tôi phụ trách', 'duyet': 'Đề xuất chờ tôi duyệt',
